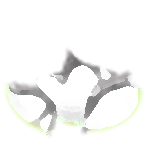
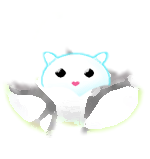
animaciones de encubacion y nacimiento

Changed region(s): [[0.2667, 0.3019, 0.7467, 0.6038]]

diff --git a/src/Criatura.js b/src/Criatura.js
@@ -6,19 +6,48 @@ import idle2 from './img/idle2.png';
 import huevo0 from './img/huevo0.png';
 import huevo00 from './img/huevo00.png';
 import { SyncLoopHook } from 'tapable';
+import huevoC1 from './img/huevoRoto1.png';
+import huevoC2 from './img/huevoRoto2.png';
+import huevoC3 from './img/huevoRoto3.png';
+import huevoC4 from './img/huevoRoto4.png';
+import huevoC5 from './img/huevoRoto5.png';
+import huevoC6 from './img/huevoRoto6.png';
+import huevoC7 from './img/huevoRoto7.png';
+
+
 
 const velAnimacion = 250;
+const probNacimiento = .2;
 
 const maskotin = {
   nombre: "Maskotin",
   edad: 0,
+  tam: 1,
   accion: "Encubando huevo",
   animList: [idle0,idle2],
   anim: 0,
   img: huevo0,
   animacion: function(){
-    this.anim<this.animList.length-1 ? this.anim ++:this.anim = 0;
+
+    if(this.accion == "Naciendo" && this.anim == this.animList.length-1) {
+      this.accion = "Tranquilo";
+      maskotin.anim=0;
+    }  
+
+    if(this.anim<this.animList.length-1){ this.anim ++;
+    }else if(this.accion == "Huevo rompiendose" && this.anim == this.animList.length-1){
+      this.animList=[idle0];
+      this.anim=0;
+      this.accion = "Naciendo";
+      this.edad = this.edad+1;
+      }else{this.anim = 0;}
+
+
+
+
+
     this.img= this.animList[this.anim];
+
   },
 
 }
@@ -51,24 +80,47 @@ class Criatura extends Component {
 
       return (
         <div className="Criatura">
-            <h2 className="nombre-titulo">{maskotin.nombre}</h2>
-            <this.Animar />
+            <h2>{maskotin.accion}</h2>
+            <fondo><this.Animar /></fondo>
+            
         </div>
       );
     }
 
     Animar = ()=>{
       if(maskotin.accion == "Encubando huevo"){
+        maskotin.animList= [huevo0];
+        if(this.state.edad > 10){
+          maskotin.accion = "Dando pataditas";
+          maskotin.anim=0;
+        }
+      }
+      if(maskotin.accion == "Dando pataditas"){
         maskotin.animList= [huevo0,huevo00];
 
-        if(this.state.edad > 10){
-          maskotin.accion = "Naciendo";
+        if(this.state.edad > 20){
+          if(Math.random()>probNacimiento){
+          maskotin.accion = "Huevo rompiendose";
+          maskotin.anim=0;
+          }else {
+            this.setState ({edad: 0});
+            maskotin.accion = "Encubando huevo";
+          }
         }
-
         
+      }else if(maskotin.accion == "Huevo rompiendose"){
+        maskotin.animList= [huevoC1,huevoC2,huevoC3,huevoC3,huevoC3,huevoC3,huevoC4,huevoC4,huevoC5,huevoC6,huevoC6,huevoC7,idle0];
 
       }else if(maskotin.accion == "Naciendo"){
-        maskotin.animList= [idle0,idle1,idle2];
+        maskotin.animList=[idle2,idle2,idle2,idle0,idle1,idle2,idle2,idle0,idle1,idle0,idle1,idle0,idle1,idle0,idle2,idle2];
+
+
+      }else if(maskotin.accion == "Tranquilo"){
+        let ran =[
+          [idle0,idle1],
+          [idle0,idle1,idle0,idle1,idle2],
+        ]
+        maskotin.animList= ran[Math.floor(Math.random()*ran.length)];
 
       }
       return <img src={maskotin.img} alt= {maskotin.accion} />

diff --git a/src/Criatura.sass b/src/Criatura.sass
@@ -8,8 +8,21 @@
         margin: 0
         padding: 10px
         background: #aa96da
-    img
+        text-align: center
+        font-size: 1em
+    fondo
         @include full
         background-image: url("./img/base0.jpg")
         background-repeat: no-repeat
         background-size: 100%
+        display: block
+        display: flex
+        justify-content: center
+        align-items: flex-end
+        bottom: 15vh
+
+        img
+          height: 28.5vh
+          width: 50% 
+          padding: 3vh
+

diff --git a/src/Criatura.css b/src/Criatura.css
@@ -2,13 +2,25 @@
   margin: 0;
   padding: 10px;
   background: #aa96da;
+  text-align: center;
+  font-size: 1em;
 }
-.Criatura img {
+.Criatura fondo {
   height: 57vh;
   width: 100%;
   background-image: url("./img/base0.jpg");
   background-repeat: no-repeat;
   background-size: 100%;
+  display: block;
+  display: flex;
+  justify-content: center;
+  align-items: flex-end;
+  bottom: 15vh;
+}
+.Criatura fondo img {
+  height: 28.5vh;
+  width: 50%;
+  padding: 3vh;
 }
 
 /*# sourceMappingURL=Criatura.css.map */
